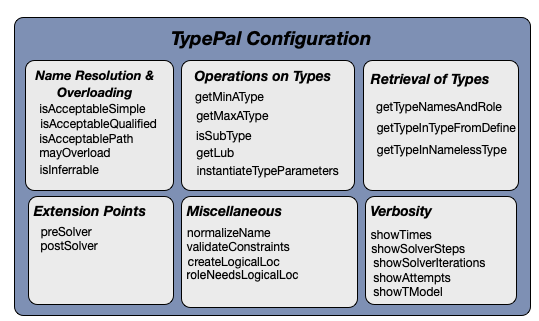
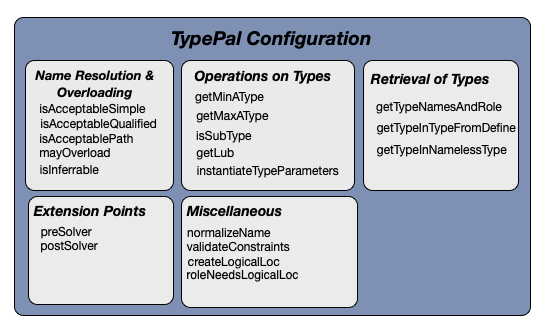
Removed outdated configuration options.

Changed region(s): [[0.6531, 0.5919, 0.9796, 0.9657]]

diff --git a/doc/TypePal/Configuration/Configuration.md b/doc/TypePal/Configuration/Configuration.md
@@ -15,7 +15,6 @@ TypePal provides configuration options for
 * _Retrieval of Types_: configures how named and structured types are handled.
 * _Extension Points_: configures operations before an after solving.
 * _Miscellaneous_: utility functions that can be configured.
-* _Verbosity_: configures the verbosity of TypePal.
 
 Here is an overview:
 
@@ -277,37 +276,3 @@ Given a Define `def`, the function `createLogicalLoc` returns the logical versio
 :::warning
 When a function is overloaded, measures have to be taken to create unique logical locations for each overloaded variant of that function. A naive solution is to use the line number of the declaration. A more solid solution is to use a hash of the actual contents of the function to distingush each function variant.
 :::
-
-### Verbosity
-
-The verbosity of TypePal can be controlled with several configurations settings.
-
-#### showTimes
-```rascal
-/* Configuration field */ bool showTimes = false
-```
-When `showTimes` is true, the time of the Collector and Solver phases is printed.
-
-#### showSolverSteps
-```rascal
-/* Configuration field */ bool showSolverSteps = false
-```
-When `showSolverSteps` is true, each step of the Solver is printed.
-
-#### showSolverIterations
-```rascal
-/* Configuration field */ bool showSolverIterations = false
-```
-When `showSolverIterations` is true, information is printed about each iteration of the Solver.
-
-#### showAttempts
-```rascal
-/* Configuration field */ bool showAttempts = false
-```
-When `showAttempts` is true, the number of evaluation attempts per calculator or requirement is printed when solving is complete.
-
-#### showTModel
-```rascal
-/* Configuration field */ bool showTModel = false
-```
-When `showTModel` is true, the resulting TModel is printed when solving is complete.
